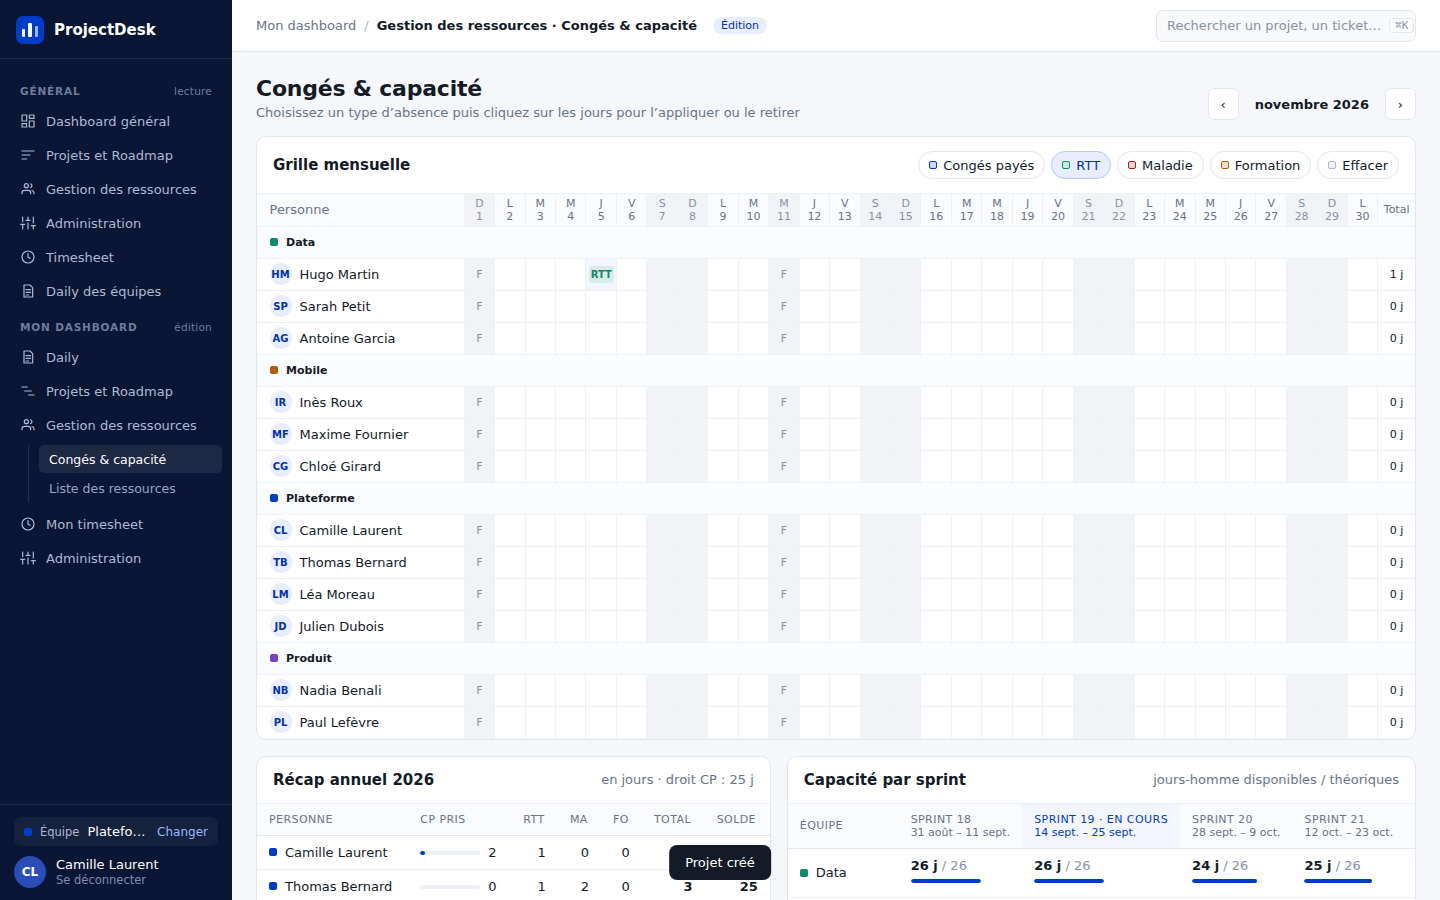
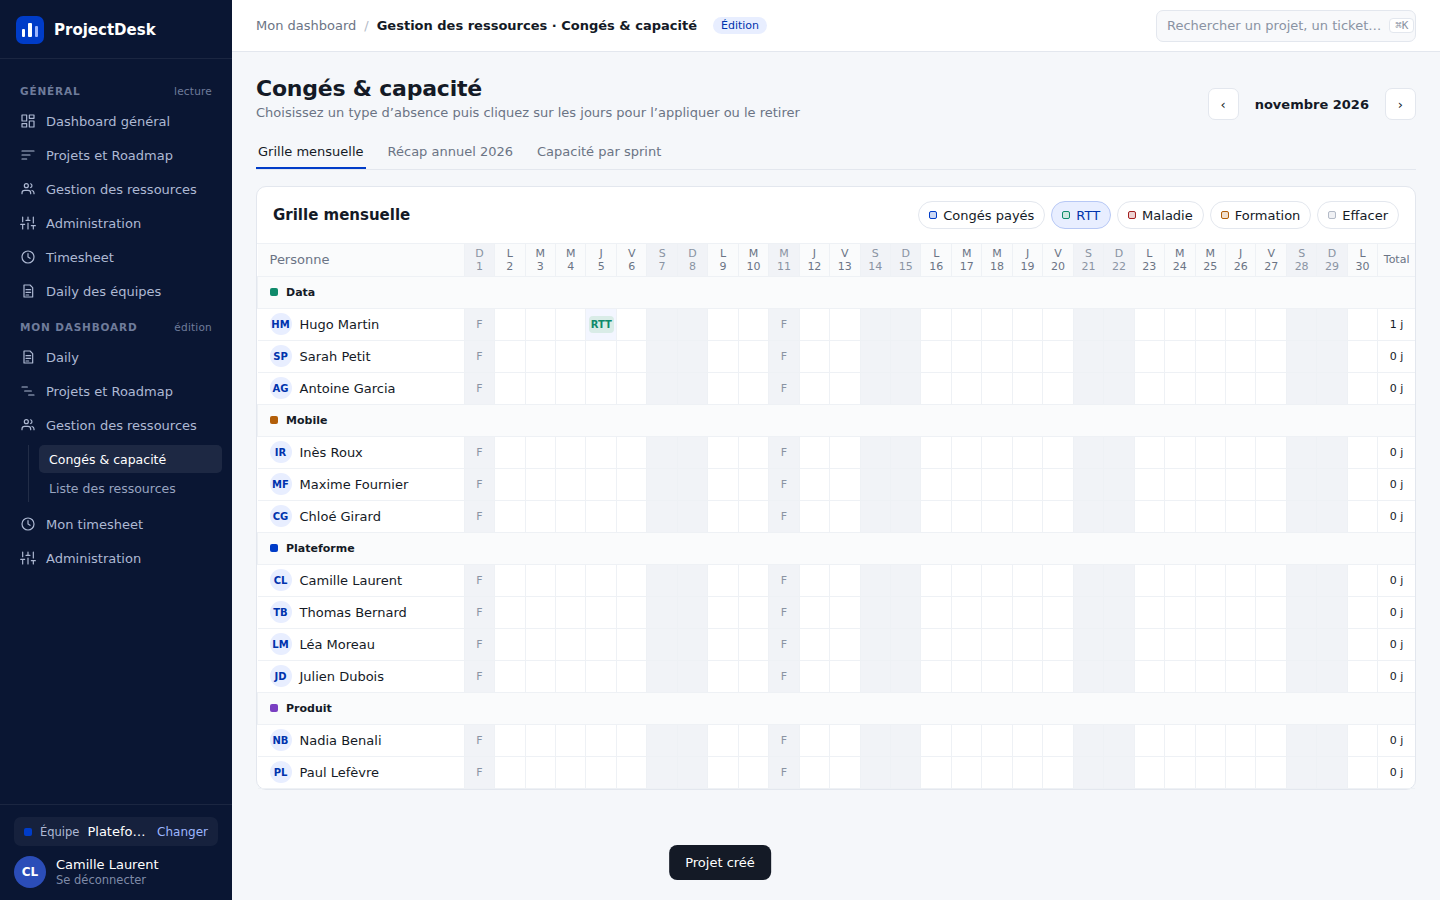
Congés & capacité : trois onglets au lieu de trois blocs
Onglets Grille mensuelle, Récap annuel, Capacité par sprint. Le récap
porte désormais sur les personnes de la grille (il était vide quand
l'équipe ouverte n'avait pas de fiche). DAT v1.17.

Claude-Session: https://claude.ai/code/session_0187v8SY8uiT6dnWqjjqJYb6

diff --git a/app/js/ecrans/conges.js b/app/js/ecrans/conges.js
@@ -1,9 +1,11 @@
 /* ============================================================
    Mon dashboard › Gestion des ressources › Congés & capacité
-   (maquette 08-mCong.png)
+   (maquette 08-mCong.png ; blocs répartis en onglets à la demande du
+   porteur, 2026-09-25)
+   Onglets :
    - Grille mensuelle : choisir un type d'absence (« pinceau ») puis
-     cliquer sur les jours pour l'appliquer ou le retirer.
-   - Récap annuel de l'équipe courante (droit CP : config.js).
+     cliquer sur les jours pour l'appliquer ou le retirer ;
+   - Récap annuel : mêmes personnes que la grille (droit CP : config.js) ;
    - Capacité par sprint et par équipe, en jours-homme.
    Modifiable : sa propre ligne et celles de ses équipes (règle RLS).
    ============================================================ */
@@ -13,6 +15,7 @@ Ecrans.conges = {
   titre: 'Gestion des ressources · Congés & capacité',
   section: 'moi',
   pinceau: () => ui('conges', { pinceau: ABSENCES.CP }).pinceau,
+  onglet: () => ui('conges', { onglet: 'grille' }).onglet,
 
   rendre() {
     const esc = C.esc, pinceau = this.pinceau(), annee = Calendrier.moisCourant().annee;
@@ -20,9 +23,9 @@ Ecrans.conges = {
       .map(p => `<button class="puce${p.id === pinceau ? ' active' : ''}" data-action="choisirPinceau" data-id="${esc(p.id)}">
         <span class="pastille" style="background:${C.teinte(p.couleur, .2)};border:1px solid ${p.couleur}"></span>${esc(p.libelle)}</button>`).join('');
 
-    // Récap annuel : personnes de l'équipe courante
+    // Récap annuel : mêmes personnes que la grille (toutes les équipes, groupées)
     const types = valeursDe('abs', true);
-    const personnes = etat.d.ressources.filter(r => r.equipeId === etat.equipeCourante);
+    const personnes = etat.d.equipes.flatMap(e => etat.d.ressources.filter(r => r.equipeId === e.id));
     const recap = personnes.map(r => {
       const rc = Calculs.recapConges(r.id, annee, etat.d.absences, types);
       return `<tr><td><span class="ligne-flex">${C.pastille(equipe(r.equipeId).couleur)}${esc(r.nom)}</span></td>
@@ -43,25 +46,36 @@ Ecrans.conges = {
     }).join('');
     const ligneTotal = `<tr class="groupe"><td>Total</td>${sprints.map(s => cellule(Calculs.capacitePeriode(etat.d.ressources, s.debut, s.fin, etat.d.absences, fer))).join('')}</tr>`;
 
+    // Contenu de chaque onglet
+    const onglet = this.onglet();
+    const grille = `<div class="carte"><div class="carte-titre"><h2>Grille mensuelle</h2><div class="puces">${pinceaux}</div></div>${Calendrier.rendre(true)}</div>`;
+    const recapAnnuel = `<div class="carte"><div class="carte-titre"><h2>Récap annuel ${annee}</h2><span class="discret">en jours · droit CP : ${CONFIG.DROIT_CP_ANNUEL} j</span></div>
+      <table class="tableau"><thead><tr><th>Personne</th><th>CP pris</th>${types.filter(t => t.libelle !== ABSENCES.CP).map(t => `<th class="num">${esc(t.abrege || t.libelle)}</th>`).join('')}
+        <th class="num">Total</th><th class="num">Solde</th></tr></thead>
+        <tbody>${recap || `<tr><td colspan="8">${C.vide('Aucune ressource.')}</td></tr>`}</tbody></table></div>`;
+    const capacite = `<div class="carte" style="overflow:auto"><div class="carte-titre"><h2>Capacité par sprint</h2><span class="discret">jours-homme disponibles / théoriques</span></div>
+      <table class="tableau"><thead><tr><th>Équipe</th>${sprints.map(s => `<th ${s.numero === courant ? 'style="background:#F3F6FF;color:var(--primaire)"' : ''}>Sprint ${s.numero}${s.numero === courant ? ' · en cours' : ''}
+        <div style="text-transform:none;letter-spacing:0">${Calculs.formatCourt(s.debut)} – ${Calculs.formatCourt(s.fin)}</div></th>`).join('')}</tr></thead>
+        <tbody>${lignesCap}${ligneTotal}</tbody></table></div>`;
+    const onglets = C.onglets([
+      { id: 'grille', libelle: 'Grille mensuelle' },
+      { id: 'recap', libelle: `Récap annuel ${annee}` },
+      { id: 'capacite', libelle: 'Capacité par sprint' }
+    ], onglet, 'ongletConges');
+    // Navigation mensuelle : utile à la grille et au récap (année affichée)
+    const navigation = onglet === 'capacite' ? '' : Calendrier.navigation();
+
     return `
     <div class="ecran">
-      ${C.entete('Congés & capacité', 'Choisissez un type d’absence puis cliquez sur les jours pour l’appliquer ou le retirer', Calendrier.navigation())}
-      <div class="carte"><div class="carte-titre"><h2>Grille mensuelle</h2><div class="puces">${pinceaux}</div></div>${Calendrier.rendre(true)}</div>
-      <div style="display:grid;grid-template-columns:minmax(0,.9fr) minmax(0,1.1fr);gap:16px;align-items:start">
-        <div class="carte"><div class="carte-titre"><h2>Récap annuel ${annee}</h2><span class="discret">en jours · droit CP : ${CONFIG.DROIT_CP_ANNUEL} j</span></div>
-          <table class="tableau"><thead><tr><th>Personne</th><th>CP pris</th>${types.filter(t => t.libelle !== ABSENCES.CP).map(t => `<th class="num">${esc(t.abrege || t.libelle)}</th>`).join('')}
-            <th class="num">Total</th><th class="num">Solde</th></tr></thead>
-            <tbody>${recap || `<tr><td colspan="8">${C.vide('Aucune ressource dans votre équipe.')}</td></tr>`}</tbody></table></div>
-        <div class="carte" style="overflow:auto"><div class="carte-titre"><h2>Capacité par sprint</h2><span class="discret">jours-homme disponibles / théoriques</span></div>
-          <table class="tableau"><thead><tr><th>Équipe</th>${sprints.map(s => `<th ${s.numero === courant ? 'style="background:#F3F6FF;color:var(--primaire)"' : ''}>Sprint ${s.numero}${s.numero === courant ? ' · en cours' : ''}
-            <div style="text-transform:none;letter-spacing:0">${Calculs.formatCourt(s.debut)} – ${Calculs.formatCourt(s.fin)}</div></th>`).join('')}</tr></thead>
-            <tbody>${lignesCap}${ligneTotal}</tbody></table></div>
-      </div>
+      ${C.entete('Congés & capacité', onglet === 'grille' ? 'Choisissez un type d’absence puis cliquez sur les jours pour l’appliquer ou le retirer' : 'Absences, récapitulatif annuel et capacité des équipes', navigation)}
+      ${onglets}
+      ${{ grille, recap: recapAnnuel, capacite }[onglet]}
     </div>`;
   }
 };
 
 Object.assign(Actions, {
+  ongletConges: d => majUi('conges', { onglet: d.id }),
   choisirPinceau: d => majUi('conges', { pinceau: d.id }),
 
   // Clic sur un jour : applique le type choisi, ou retire l'absence si c'est le même type (ou « Effacer »)

diff --git a/tests/parcours.js b/tests/parcours.js
@@ -150,6 +150,11 @@ const verifier = (nom, condition, detail = '') => { resultats.push({ nom, ok: !!
     await page.click('[data-action="choisirPinceau"][data-id="RTT"]');
     await page.click('td[data-action="basculerAbsence"] >> nth=3'); await page.waitForTimeout(300);
     await capture('11-conges');
+    await page.click('[data-action="ongletConges"][data-id="recap"]'); await page.waitForTimeout(200);
+    verifier('Congés : onglet Récap annuel (personnes de la grille)', (await texte()).includes('Solde') && !(await texte()).includes('Aucune ressource') && !(await page.$('td[data-action="basculerAbsence"]')));
+    await page.click('[data-action="ongletConges"][data-id="capacite"]'); await page.waitForTimeout(200);
+    verifier('Congés : onglet Capacité par sprint', (await texte()).includes('jours-homme') && !(await texte()).includes('Solde'));
+    await page.click('[data-action="ongletConges"][data-id="grille"]');
     verifier('Congés : absence posée', (await page.$$('td[data-action="basculerAbsence"] .case-absence')).length > 0);
 
     await aller('listeRessources');

diff --git a/docs/DAT.md b/docs/DAT.md
@@ -29,6 +29,7 @@
 | 1.14    | 2026-09-25 | Valeurs système des référentiels **renommables** (clé technique `cle`, renommage propagé aux données, droits par clé) — migration 007 (§ 4, § 5) |
 | 1.15    | 2026-09-25 | Affectation : « + Nouvelle personne » depuis « + Membre » (fiche créée puis sélectionnée) (§ 3.4) |
 | 1.16    | 2026-09-25 | Libellé unique « Membre » : « + Personne » → « + Membre », « + Nouvelle personne » → « + Nouveau membre » (§ 3.3, § 3.4) |
+| 1.17    | 2026-09-25 | Congés & capacité : trois onglets au lieu de trois blocs ; récap annuel sur les personnes de la grille (et non plus l'équipe ouverte seule) (§ 3.3) |
 
 ---
 
@@ -124,7 +125,7 @@ Captures de l'application : `docs/maquettes/etat-actuel/` (générées par `test
 |-------|---------|---------|---------|
 | `daily` | `daily.js` | Ma note du jour (enregistrement auto après 0,8 s ; lisible par mes coéquipiers), modèle, historique | `08-daily.png` |
 | `mesProjets` | `mes-projets.js` | Gantt des projets où je suis affecté ; « + Nouveau projet », « Objectifs de l'équipe » | `09-mes-projets.png`, `10-panneau-projet.png` |
-| `conges` | `conges.js` | Grille mensuelle éditable (« pinceau » par type d'absence), récap annuel, capacité par sprint | `11-conges.png` |
+| `conges` | `conges.js` | Trois **onglets** : Grille mensuelle éditable (« pinceau » par type d'absence), Récap annuel (mêmes personnes que la grille), Capacité par sprint | `11-conges.png` |
 | `listeRessources` | `liste-ressources.js` | Onglets (maquettes `arborescence-ressources.png`, `direction-espace-travail.png`, `liste-ressources-board.png`) : **Organisation** — une seule arborescence **Direction → Équipe → Projet → Membres** (rôle sur le projet), plus les personnes sans projet de chaque unité ; colonnes ressources, responsable / rôle, statut ; boutons « + Ajouter une direction », « + Équipe » (déjà rattachée), « + Projet », « + Membre » (sur une unité : nouvelle fiche ; sur un projet : affectation), modifier, supprimer (unité vide seulement) ; recherche sur unités, projets et personnes ; unités dépliées et projets repliés par défaut, « Tout déplier ». **Postes** et **Types de contrat** — valeurs, nombre de ressources, statut, renommage (propagé aux fiches), suppression si inutilisée. Ouvert **sans équipe** pour un administrateur | `12-liste-ressources.png`, `18-postes.png` |
 | `monTimesheet` | `mon-timesheet.js` | Saisie de mes heures, soumission ; validation/renvoi par le responsable d'équipe | `13-mon-timesheet.png` |
 | `monAdmin` | `mon-admin.js` | Demandes adressées à mon équipe (colonnes + fiche de traitement) ; formulaire de demande + aperçu ; **Équipes** (créer / modifier, membres, invitations — administrateurs et responsables) ; **Référentiels** (administrateurs). Ouvert sans équipe pour un administrateur | `14-mon-admin.png`, `15-formulaire.png` |
@@ -299,7 +300,7 @@ refusée sur `referentiels`, `administrateurs` et `demandes` (usurpation).
 | Outil | Contenu |
 |-------|---------|
 | `tests/serveur-simule.js` | Neon Auth (dont Google simulé) + Data API simulés en mémoire, données de la maquette (comptes `camille@test.fr` administratrice/owner, `thomas@test.fr` membre, `elodie@test.fr` demandeuse, `admin@test.fr` administratrice sans équipe ; mot de passe `motdepasse`) |
-| `tests/parcours.js` | Parcours Playwright de bout en bout (44 contrôles, dont « Général en lecture seule », l'aller-retour Google simulé, le parcours administrateur sans équipe le daily des équipes et le board des ressources) + captures `docs/maquettes/etat-actuel/` |
+| `tests/parcours.js` | Parcours Playwright de bout en bout (46 contrôles, dont « Général en lecture seule », l'aller-retour Google simulé, le parcours administrateur sans équipe le daily des équipes et le board des ressources) + captures `docs/maquettes/etat-actuel/` |
 | `scripts/verifier-docs.js` | Cohérence documentation ↔ code après chaque commit (§ 11) |
 
 Les règles RLS ne sont pas simulées : elles sont vérifiées en base et lors de la recette réelle.
